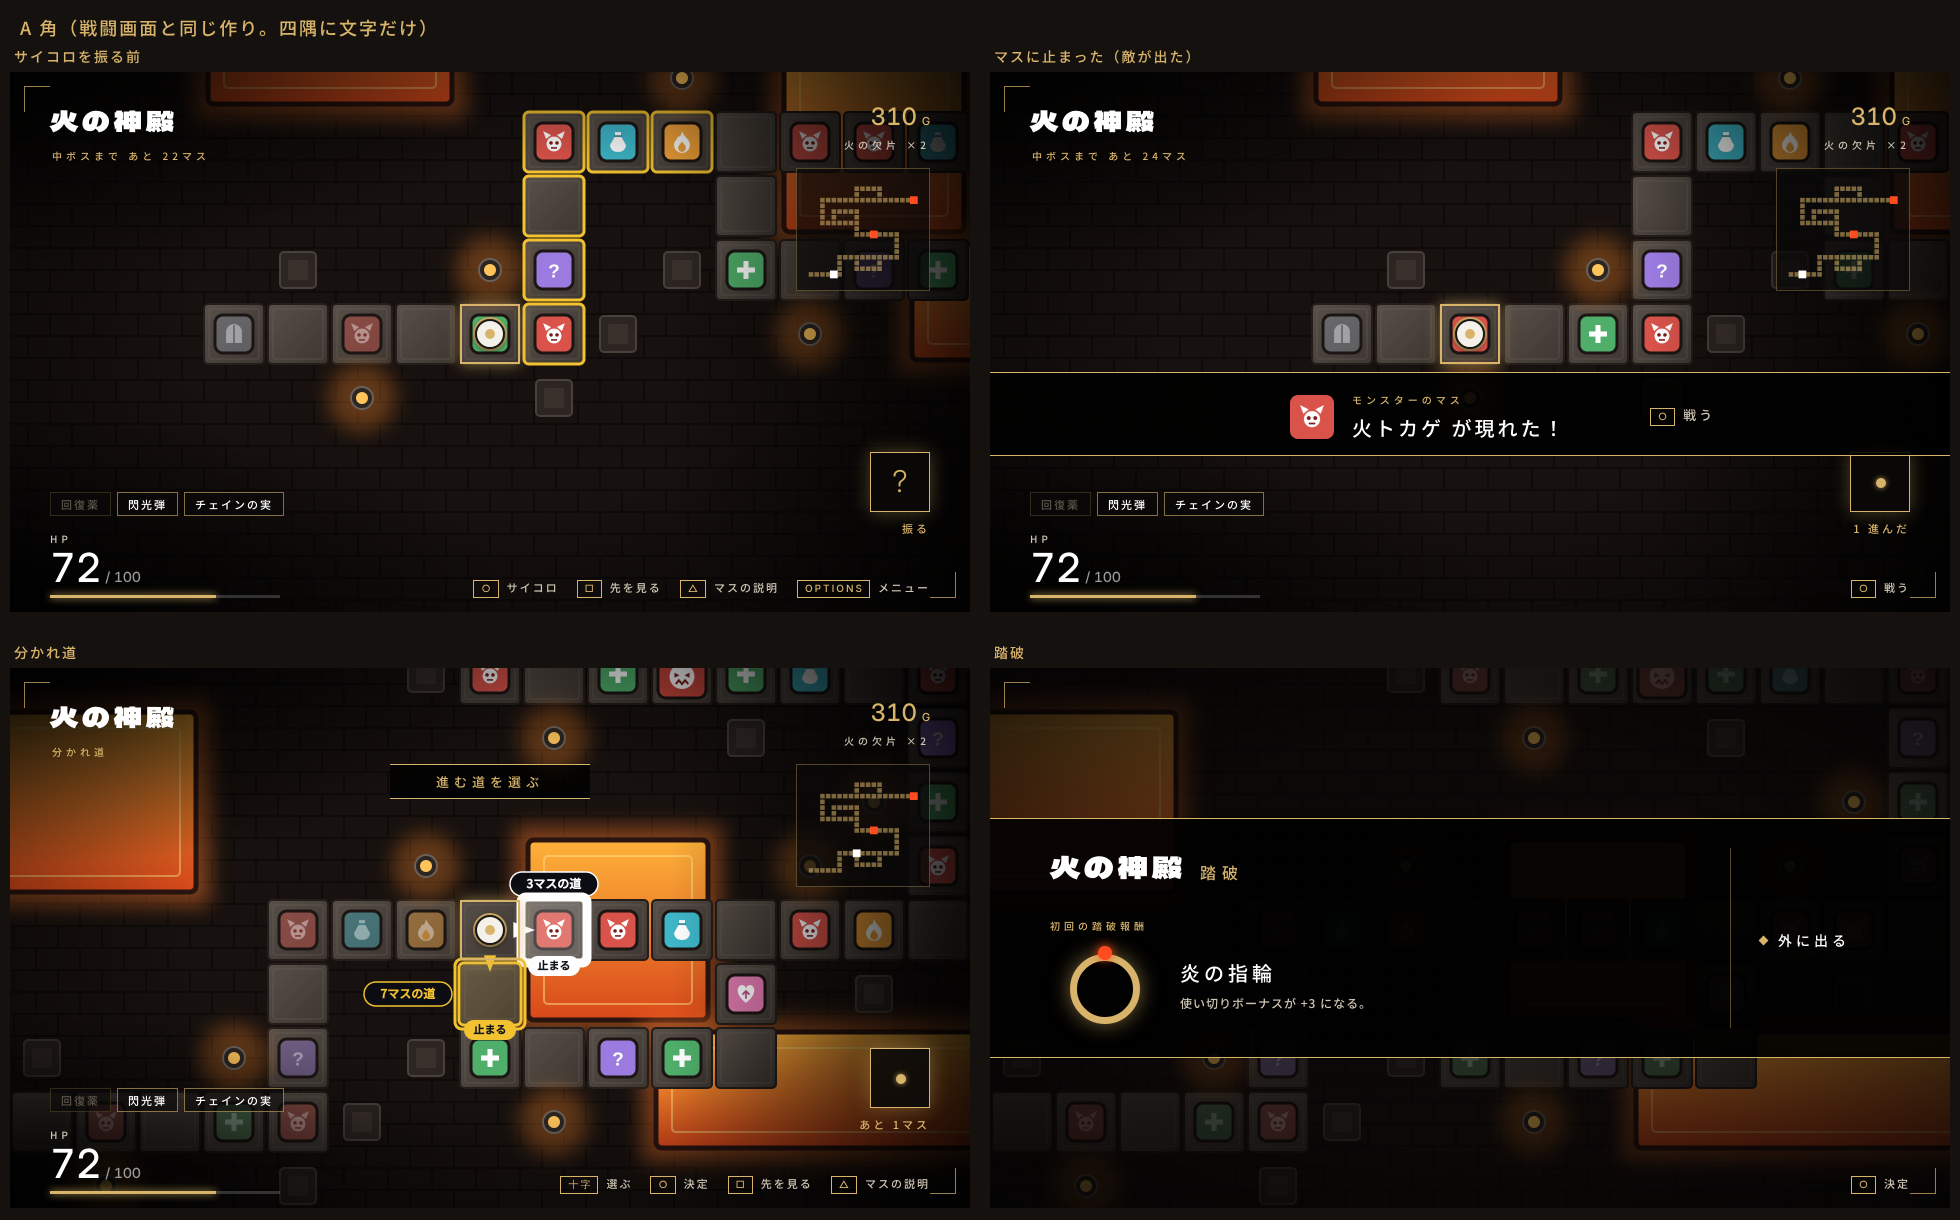
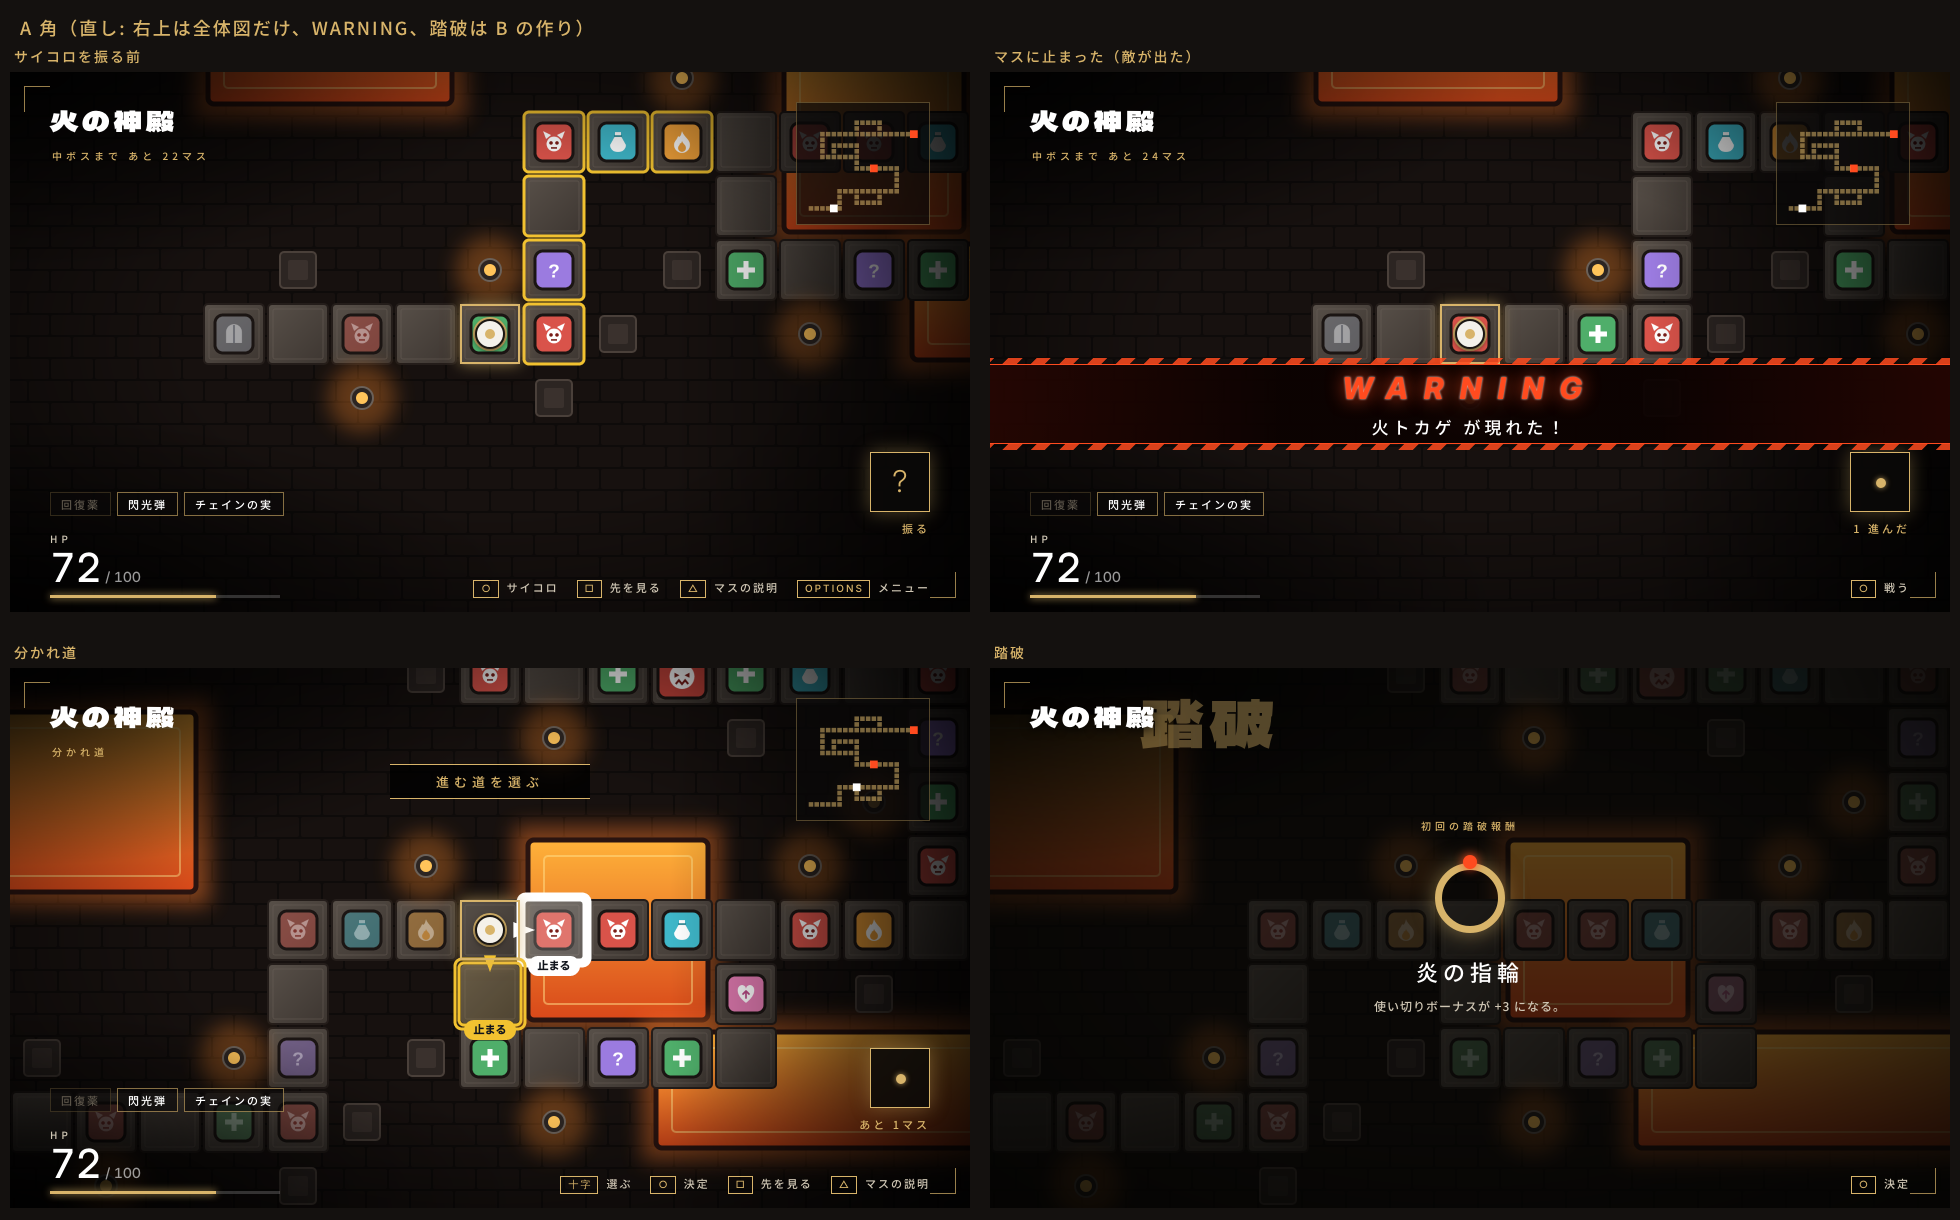
分かれ道の「○マスの道」の名札を消す。段階5の A 案の直しと、マスの絵・サイコロの見本3パターン
Claude-Session: https://claude.ai/code/session_012hkhuRjXJoxGWxPSr8xzWQ

diff --git a/src/screens/board.ts b/src/screens/board.ts
@@ -49,13 +49,10 @@ export function drawBoard(gs: GameScene, l0: Layer, l1: Layer, l2: Layer) {
   // 分かれ道: 行き先のマスを強調して選ぶ
   opts.forEach((id, i) => {
     const q = run.board[id], { x, y } = mid(q), from = mid(run.square), on = i === gs.pick, col = on ? C.white : C.keep;
-    const a = Math.atan2(y - from.y, x - from.x), n = run.board.filter(o => o.seg === q.seg).length;
+    const a = Math.atan2(y - from.y, x - from.x);
     l1.rect(x - G / 2 + 1, y - G / 2 + 1, G - 2, G - 2, { stroke: col, sw: on ? 5 : 3, rx: 5 });
     l1.tri((x + from.x) / 2, (y + from.y) / 2, on ? 13 : 10, a, col);
-    // 道の名札は、進む向きの横に置く（先のマスに重ねない）
-    const vert = Math.abs(Math.sin(a)) > 0.7, lx = vert ? x - G / 2 - 50 : x, ly = vert ? y : y - 46;
-    l1.rect(lx - 44, ly - 12, 88, 24, { fill: BOX, stroke: col, sw: 1.5, rx: 12 });
-    l1.text(lx, ly, `${n}マスの道`, 12, col, 'middle', true);
+    // 「○マスの道」の名札は出さない（選んでいる道の矢印と、止まるマスの強調で分かる。持ち主の指示）
     // いまの出目で止まるマス
     const s = mid(run.board[gs.stopFrom(id)]), pulse = on ? 0.2 + 0.12 * Math.sin(gs.clock * 7) : 0.1;
     l1.rect(s.x - G / 2 - 3, s.y - G / 2 - 3, G + 6, G + 6, { fill: col, alpha: pulse, rx: 7 });

diff --git a/docs/design.md b/docs/design.md
@@ -233,6 +233,7 @@
 ### 直前の作業
 - 2026-11-17: 返事待ちだった4件に答えをもらい、戦闘画面の見本を詰めた（D4〜D6。`docs/look.md` の4章と9章）。コードには触れていない。見本はブランチ `claude/cool-euler-7yzbaf` に push した（`main` には未反映）。
 - その前の push（`7b8fbf2`）の CI は success だった。
+- 2026-11-18: 分かれ道の「○マスの道」の名札を消した（持ち主の指示）。段階5の見本は A 角を土台に直した（`docs/samples/style-S5-A.png`）。マスの絵とサイコロの3パターンの見本（`style-S5-icons.png`、`style-S5-dice.png`）を出した。返事待ち。
 - 2026-11-17: 持ち主の指示で直した: 操作の案内のボタン名を枠の中央に、マスの説明を盤面のメニューから外し、開いたときは柱を出さない。
 - 2026-11-17: 段階4（メニュー類）を C 柱の案で実装した。細部は `docs/look.md` の13章。
 - 2026-11-17: 持ち主の指示で直した: ダンジョンのポーズの注記を消す、PAUSE とランクを太字、ダンジョンで負けたときに「ダンジョンから出る」を選べる、討伐の結果に討伐回数とこれまでの最速タイム（ダンジョンの敵も）、すごろくのテストモード（タッチパッド / T でサイコロの目を選ぶ）。
